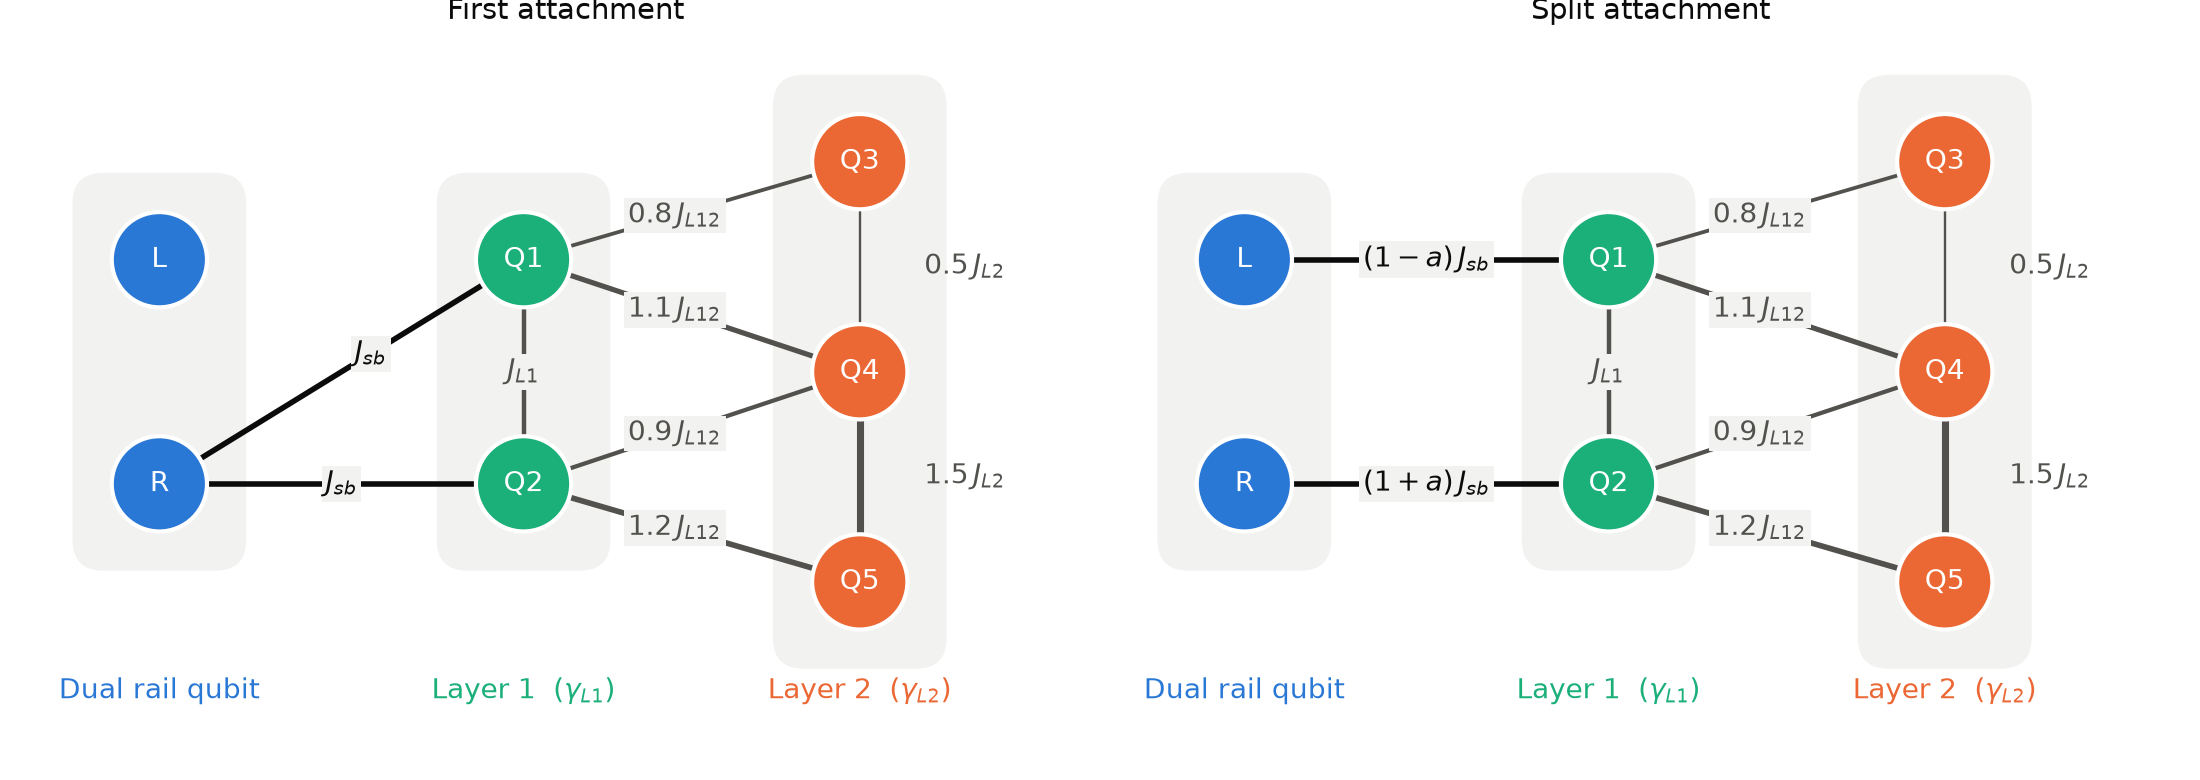
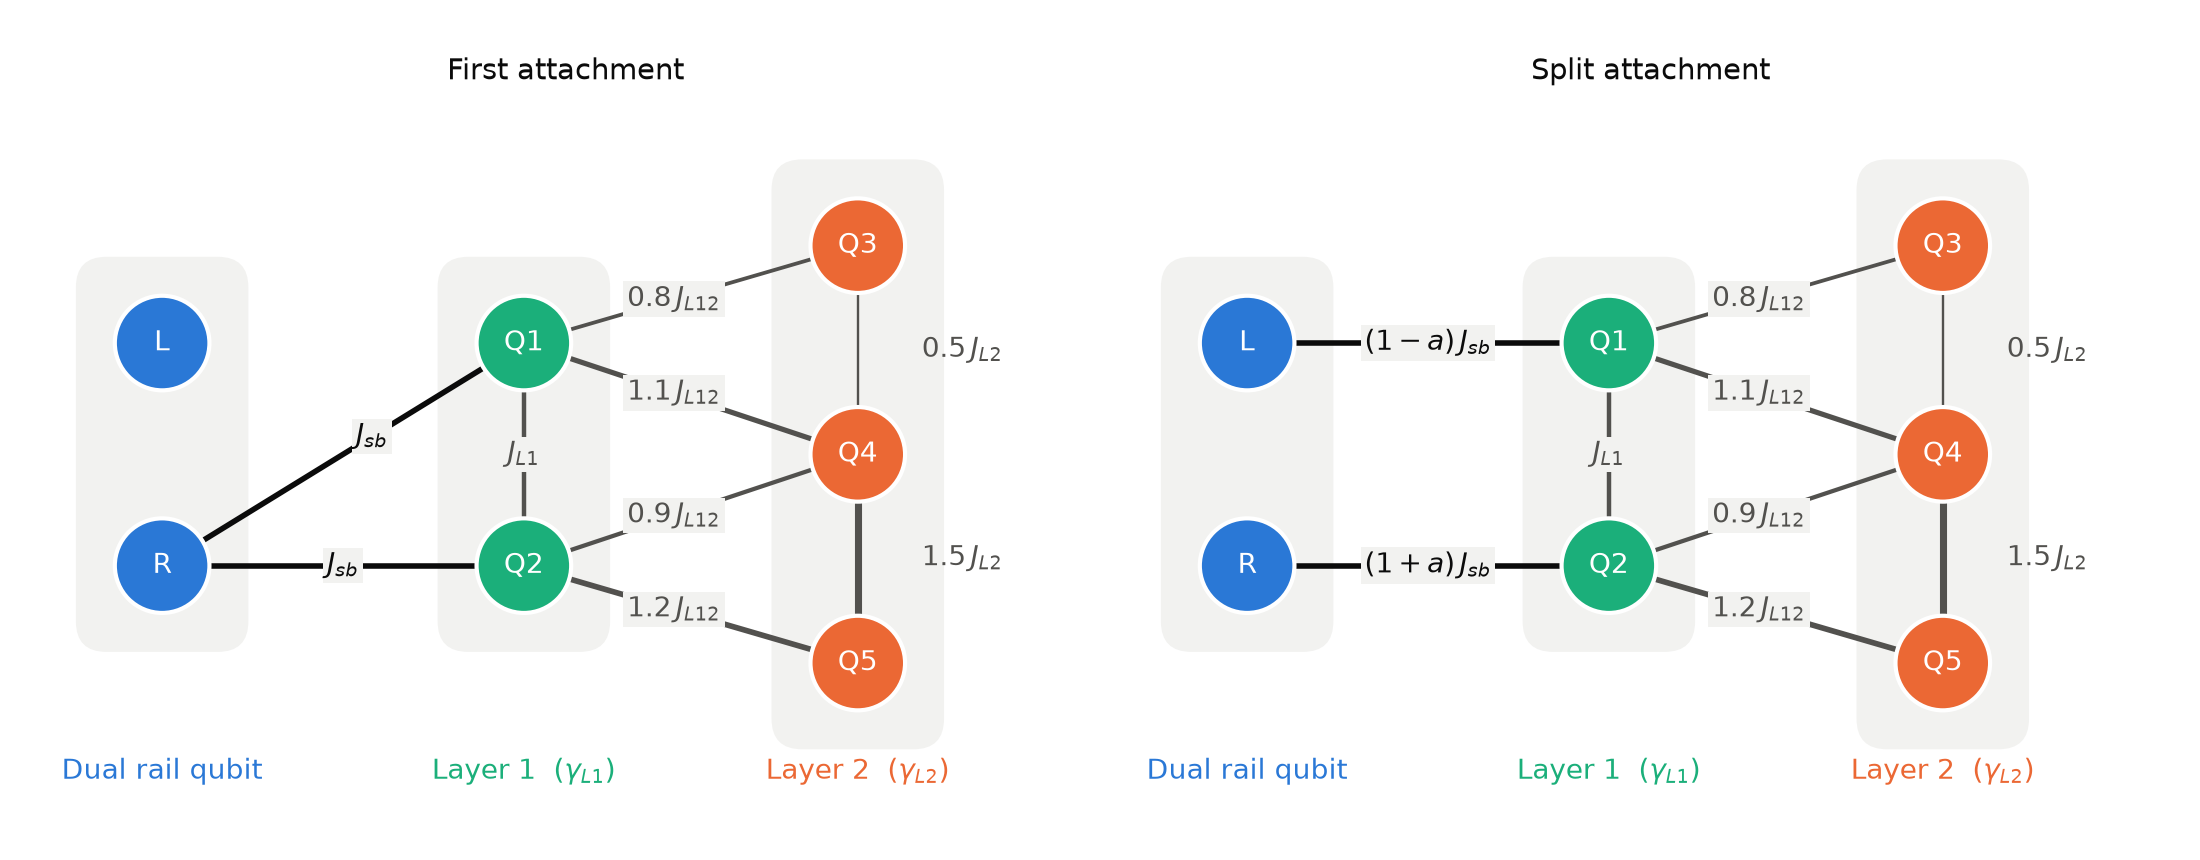
Figure 1: panel titles inside the drawing area

diff --git a/part1/plot_bath_schematic.py b/part1/plot_bath_schematic.py
@@ -81,14 +81,14 @@ def panel(ax, split, title):
         bond(ax, "R", "Q2", color=INK, lw=2.0, label="$J_{sb}$")
     for name in POS:
         node(ax, name)
-    ax.set_title(title, fontsize=10.5)
+    ax.text(2.9, 4.95, title, ha="center", va="center", fontsize=10.5)
     ax.set_xlim(-0.80, 6.60)
-    ax.set_ylim(-0.50, 4.60)
+    ax.set_ylim(-0.50, 5.25)
     ax.set_aspect("equal")
     ax.axis("off")
 
 
-fig, axes = plt.subplots(1, 2, figsize=(11, 3.9))
+fig, axes = plt.subplots(1, 2, figsize=(11, 4.3))
 panel(axes[0], False, "First attachment")
 panel(axes[1], True, "Split attachment")
 fig.tight_layout()
